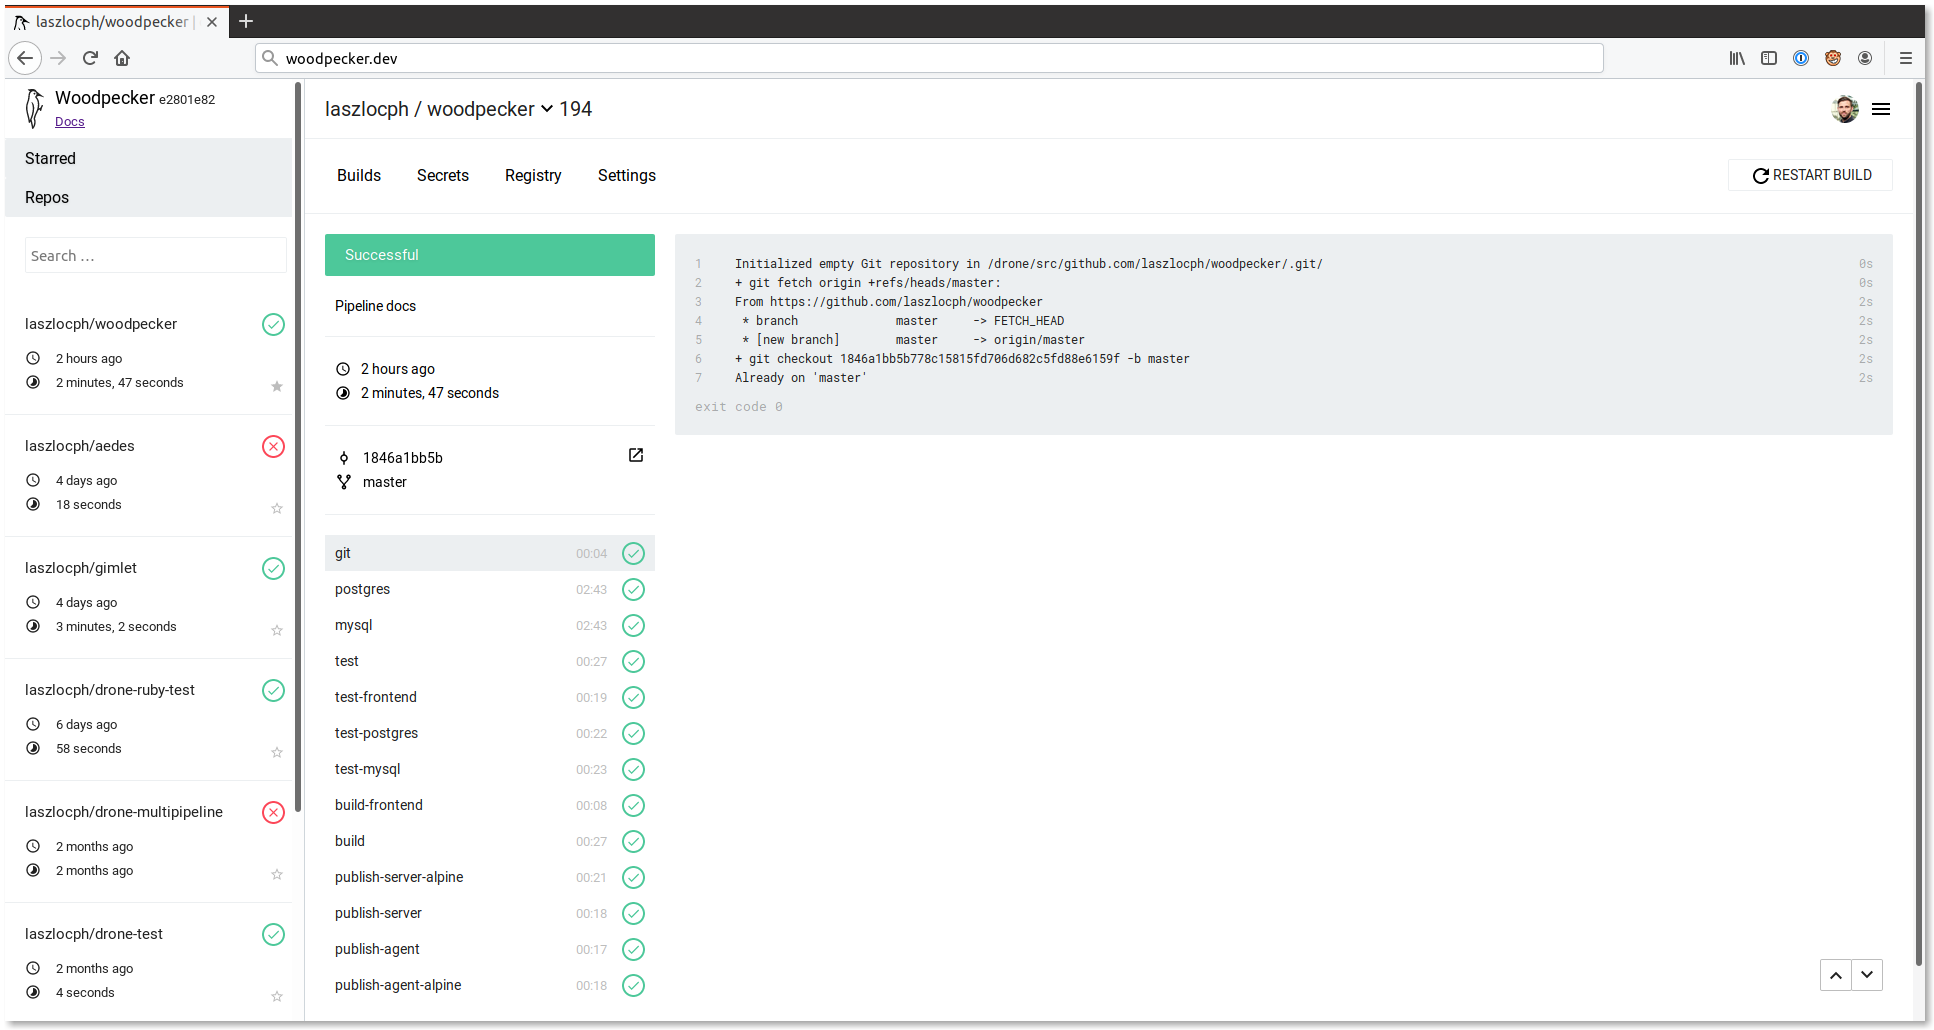
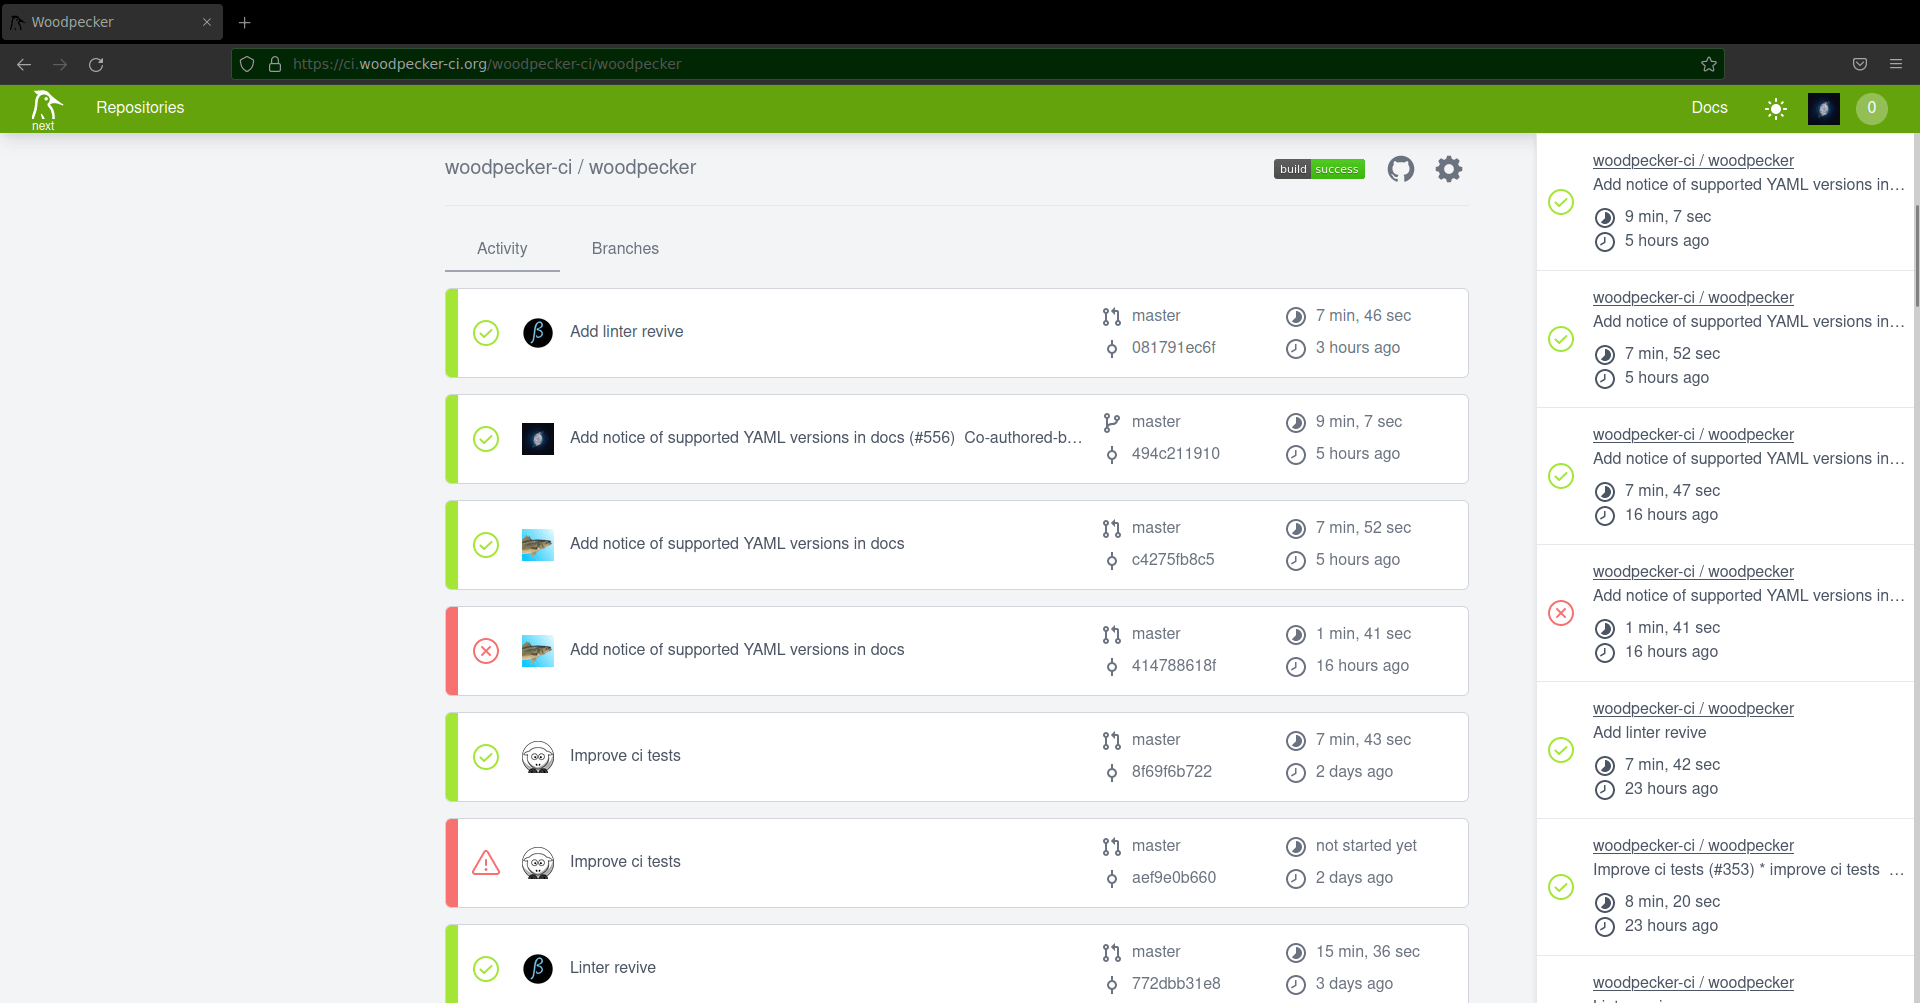
Update README (#560)
* Add "Stars over time to README
* Move info from README into docs & link to it
* New CI location
* New screenshot

diff --git a/docs/docusaurus.config.js b/docs/docusaurus.config.js
@@ -100,7 +100,7 @@ module.exports = {
               href: 'https://github.com/woodpecker-ci/woodpecker',
             },
             {
-              href: 'https://wp.laszlo.cloud/woodpecker-ci/woodpecker',
+              href: 'https://ci.woodpecker-ci.org/woodpecker-ci/woodpecker',
               label: 'CI',
             },
           ],

diff --git a/README.md b/README.md
@@ -5,8 +5,8 @@
 </p>
 <br/>
 <p align="center">
-  <a href="https://wp.laszlo.cloud/woodpecker-ci/woodpecker" title="Build Status">
-    <img src="https://wp.laszlo.cloud/api/badges/woodpecker-ci/woodpecker/status.svg">
+  <a href="https://ci.woodpecker-ci.org/woodpecker-ci/woodpecker" title="Build Status">
+    <img src="https://ci.woodpecker-ci.org/api/badges/woodpecker-ci/woodpecker/status.svg">
   </a>
   <a href="https://discord.gg/fcMQqSMXJy" title="Join the Discord chat at https://discord.gg/fcMQqSMXJy">
     <img src="https://img.shields.io/discord/838698813463724034.svg">
@@ -48,91 +48,37 @@ Please consider to donate and become a backer. 🙏 [[Become a backer](https://o
 - Pipeline steps can be named as you like
 - Run any command in the commands section
 
-```yaml
-# .woodpecker.yml
-pipeline:
-  build:
-    image: debian
-    commands:
-      - echo "This is the build step"
-  a-test-step:
-    image: debian
-    commands:
-      - echo "Testing.."
-```
+[Read More](https://woodpecker-ci.org/docs/usage/intro)
 
 ### Build steps are containers
 
 - Define any Docker image as context
 - Install the needed tools in custom Docker images, use them as context
 
-```diff
- pipeline:
-   build:
--    image: debian
-+    image: mycompany/image-with-awscli
-     commands:
-       - aws help
-```
+[Read More](https://woodpecker-ci.org/docs/usage/pipeline-syntax#steps)
 
-### File changes are incremental
+### Plugins
 
-- Woodpecker clones the source code in the beginning pipeline
-- Changes to files are persisted through steps as the same volume is mounted to all steps
+Woodpecker has [official plugins](https://woodpecker-ci.org/plugins), but you can also use your own.
 
-```yaml
-# .woodpecker.yml
-pipeline:
-  build:
-    image: debian
-    commands:
-      - touch myfile
-  a-test-step:
-    image: debian
-    commands:
-      - cat myfile
-```
-
-### Plugins are straightforward
-
-- If you copy the same shell script from project to project
-- Pack it into a plugin instead
-- And make the yaml declarative
-- Plugins are Docker images with your script as an entrypoint
-
-```Dockerfile
-# Dockerfile
-FROM laszlocloud/kubectl
-COPY deploy /usr/local/deploy
-ENTRYPOINT ["/usr/local/deploy"]
-```
-
-```bash
-# deploy
-kubectl apply -f $PLUGIN_TEMPLATE
-```
-
-```yaml
-# .woodpecker.yml
-pipeline:
-  deploy-to-k8s:
-    image: laszlocloud/my-k8s-plugin
-    template: config/k8s/service.yml
-```
+[Read More](https://woodpecker-ci.org/docs/usage/plugins/plugins)
 
 ## Documentation
 
 https://woodpecker-ci.org/
 
-## Who uses Woodpecker?
-
-Currently, I know of one organization using Woodpecker. With 50+ users, 130+ repos and more than 1100 builds a week.
-
-Leave a [comment](https://github.com/woodpecker-ci/woodpecker/issues/122) if you're using it.
-
 ## Contribution
 
 See [Contributing Guide](CONTRIBUTING.md)
+
+## Who uses Woodpecker?
+
+[Codeberg](https://codeberg.org), the woodpecker project itself, and many others not listed.
+
+Leave a [comment](https://github.com/woodpecker-ci/woodpecker/issues/122) if you're using it.
+
+## Stars over time
+[![Stargazers over time](https://starchart.cc/woodpecker-ci/woodpecker.svg)](https://starchart.cc/woodpecker-ci/woodpecker)
 
 ## License
 

diff --git a/docs/docs/20-usage/20-pipeline-syntax.md b/docs/docs/20-usage/20-pipeline-syntax.md
@@ -24,7 +24,7 @@ In the above example we define two pipeline steps, `frontend` and `backend`. The
 
 ## Global Pipeline Conditionals
 
-Woodpecker gives the ability to skip whole pipelines (not just steps) when based on certain conditions. 
+Woodpecker gives the ability to skip whole pipelines (not just steps) when based on certain conditions.
 
 ### `branches`
 Woodpecker can skip commits based on the target branch. If the branch matches the `branches:` block the pipeline is executed, otherwise it is skipped.
@@ -101,7 +101,7 @@ pipeline:
 
 If required, Woodpecker can be made to skip whole pipelines based on `when`. This could be utilised to ensure compliance that only certain jobs run on certain agents (regional restrictions). Or targeting architectures.
 
-This is achieved by ensuring the `when` block is on the root level. Rather than 
+This is achieved by ensuring the `when` block is on the root level.
 
 See [when](#step-when---step-conditional-execution) above to understand all the different types of conditions that can be used.
 
@@ -125,12 +125,12 @@ pipeline:
 
 ```
 
-Assuming we have two agents, one `arm` and one `amd64`. Previously this pipeline would have executed on **either agent**, as Woodpecker is not fussy about where it runs the pipelines. 
+Assuming we have two agents, one `arm` and one `amd64`. Previously this pipeline would have executed on **either agent**, as Woodpecker is not fussy about where it runs the pipelines.
 Because we had our original `when` block underneath the `build` block, if it was run on the `linux/amd64` agent. It would have cloned the repository, and then skipped the build step. Resulting in a Successful build.
 
 Moving the when block to the root level will ensure that the whole pipeline will run be targeted to agents that match all of the conditions.
 
-This can be utilised in conjunction with other when blocks as well. 
+This can be utilised in conjunction with other when blocks as well.
 
 Example `when` pipeline & step block:
 
@@ -196,6 +196,24 @@ pipeline:
     commands:
 +     - go build
 +     - go test
+```
+
+### File changes are incremental
+
+- Woodpecker clones the source code in the beginning pipeline
+- Changes to files are persisted through steps as the same volume is mounted to all steps
+
+```yaml
+# .woodpecker.yml
+pipeline:
+  build:
+    image: debian
+    commands:
+      - echo "test content" > myfile
+  a-test-step:
+    image: debian
+    commands:
+      - cat myfile
 ```
 
 ### `image`
